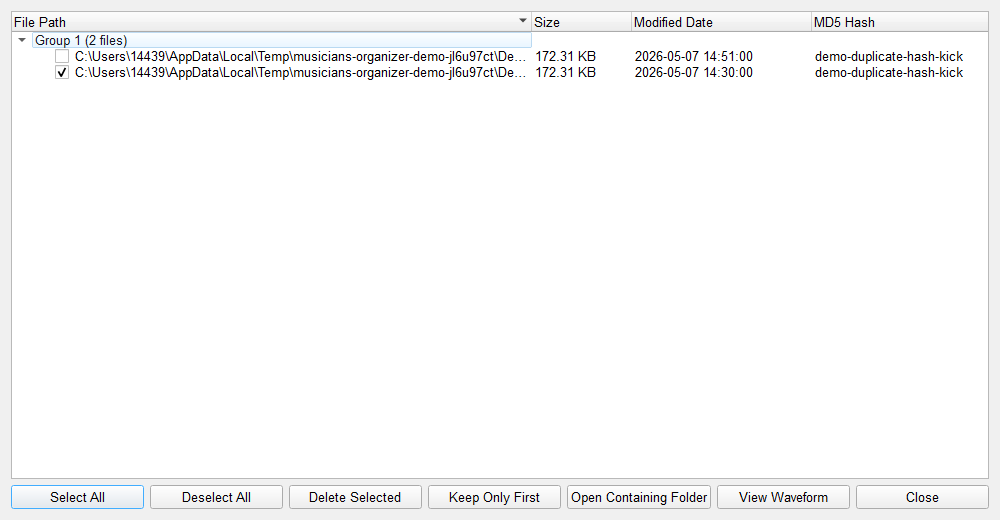
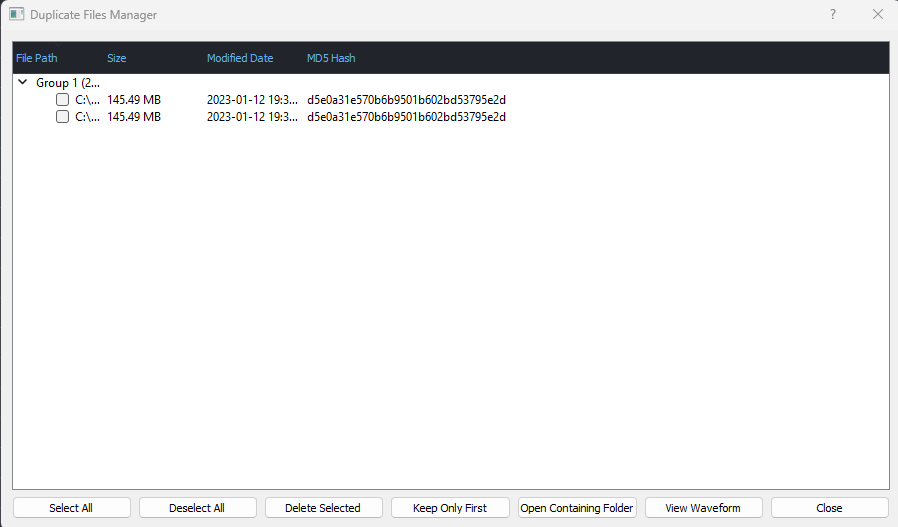
Use curated README screenshots

Changed region(s): [[0.0, 0.0, 0.9978, 0.9846]]

diff --git a/scripts/capture_readme_screenshots.py b/scripts/capture_readme_screenshots.py
@@ -1,4 +1,4 @@
-"""Capture README screenshots from real Qt widgets with generated demo data."""
+"""Capture safe fixture screenshots from real Qt widgets with demo data."""
 
 from __future__ import annotations
 
@@ -26,7 +26,7 @@ from ui.dialogs.feature_view_dialog import FeatureViewDialog  # noqa: E402
 from ui.dialogs.spectrogram_dialog import SpectrogramDialog  # noqa: E402
 from ui.main_window import MainWindow  # noqa: E402
 
-OUTPUT_DIR = Path("docs/readme")
+OUTPUT_DIR = Path("docs/readme/generated")
 SAMPLE_RATE = 44_100
 
 
@@ -141,7 +141,7 @@ def main() -> int:
         db_manager = DatabaseManager(engine=engine)
 
         window = MainWindow(db_manager=db_manager)
-        window.setTheme("light", save=False)
+        window.setTheme("dark", save=False)
         window.resize(1280, 820)
         window.onScanFinished(records)
         if window.txtFilter is not None:
@@ -175,7 +175,7 @@ def main() -> int:
         feature_dialog.resize(560, 620)
         _save_widget(app, feature_dialog, OUTPUT_DIR / "feature-details.png")
 
-        spectrogram_dialog = SpectrogramDialog(records[0]["path"], theme="light")
+        spectrogram_dialog = SpectrogramDialog(records[0]["path"], theme="dark")
         spectrogram_dialog.resize(920, 560)
         _save_widget(app, spectrogram_dialog, OUTPUT_DIR / "spectrogram-view.png")
 

diff --git a/README.md b/README.md
@@ -40,17 +40,20 @@ and cleaning the library over time.
 
 ## Visual Walkthrough
 
-The screenshots below are generated from local demo fixtures, not from a private
-sample library. They show the main workflows reviewers should understand quickly:
-library filtering, duplicate review, feature inspection, and spectrogram preview.
+These dark-mode screenshots show the main reviewer-facing workflows:
+library filtering, duplicate review, feature inspection, spectrogram preview,
+and waveform preview. Media files stay local; the repository includes only the
+screenshots and workflow documentation.
 
-| Library filtering | Duplicate review |
-| --- | --- |
-| ![Library filtering view](docs/readme/library-view.png) | ![Duplicate manager view](docs/readme/duplicate-manager.png) |
+![Library filtering view](docs/readme/library-view.png)
 
-| Feature inspection | Spectrogram preview |
+| Duplicate review | Feature inspection |
 | --- | --- |
-| ![Feature details dialog](docs/readme/feature-details.png) | ![Spectrogram preview dialog](docs/readme/spectrogram-view.png) |
+| ![Duplicate manager view](docs/readme/duplicate-manager.png) | ![Feature details dialog](docs/readme/feature-details.png) |
+
+| Spectrogram preview | Waveform preview |
+| --- | --- |
+| ![Spectrogram preview dialog](docs/readme/spectrogram-view.png) | ![Waveform preview dialog](docs/readme/waveform-view.png) |
 
 ## Quick Start (Deterministic Path)
 

diff --git a/docs/readme/README.md b/docs/readme/README.md
@@ -2,12 +2,16 @@
 
 This folder stores the screenshots embedded in the root README.
 
-The screenshots are generated from temporary demo audio and seeded metadata, not
-from a private sample library. Regenerate them from the repository root with:
+The current README screenshots are curated dark-mode captures from the desktop
+UI. They are image-only proof assets; audio files and local media libraries are
+not committed.
+
+If manual captures need a safe fixture-based replacement, generate synthetic
+screenshots from the repository root with:
 
 ```powershell
 .\.venv\Scripts\python.exe scripts\capture_readme_screenshots.py
 ```
 
-The script opens real Qt widgets, captures PNGs, and discards the temporary audio
-fixtures after capture.
+The script opens real Qt widgets, captures PNGs under `docs/readme/generated/`,
+and discards the temporary audio fixtures after capture.
